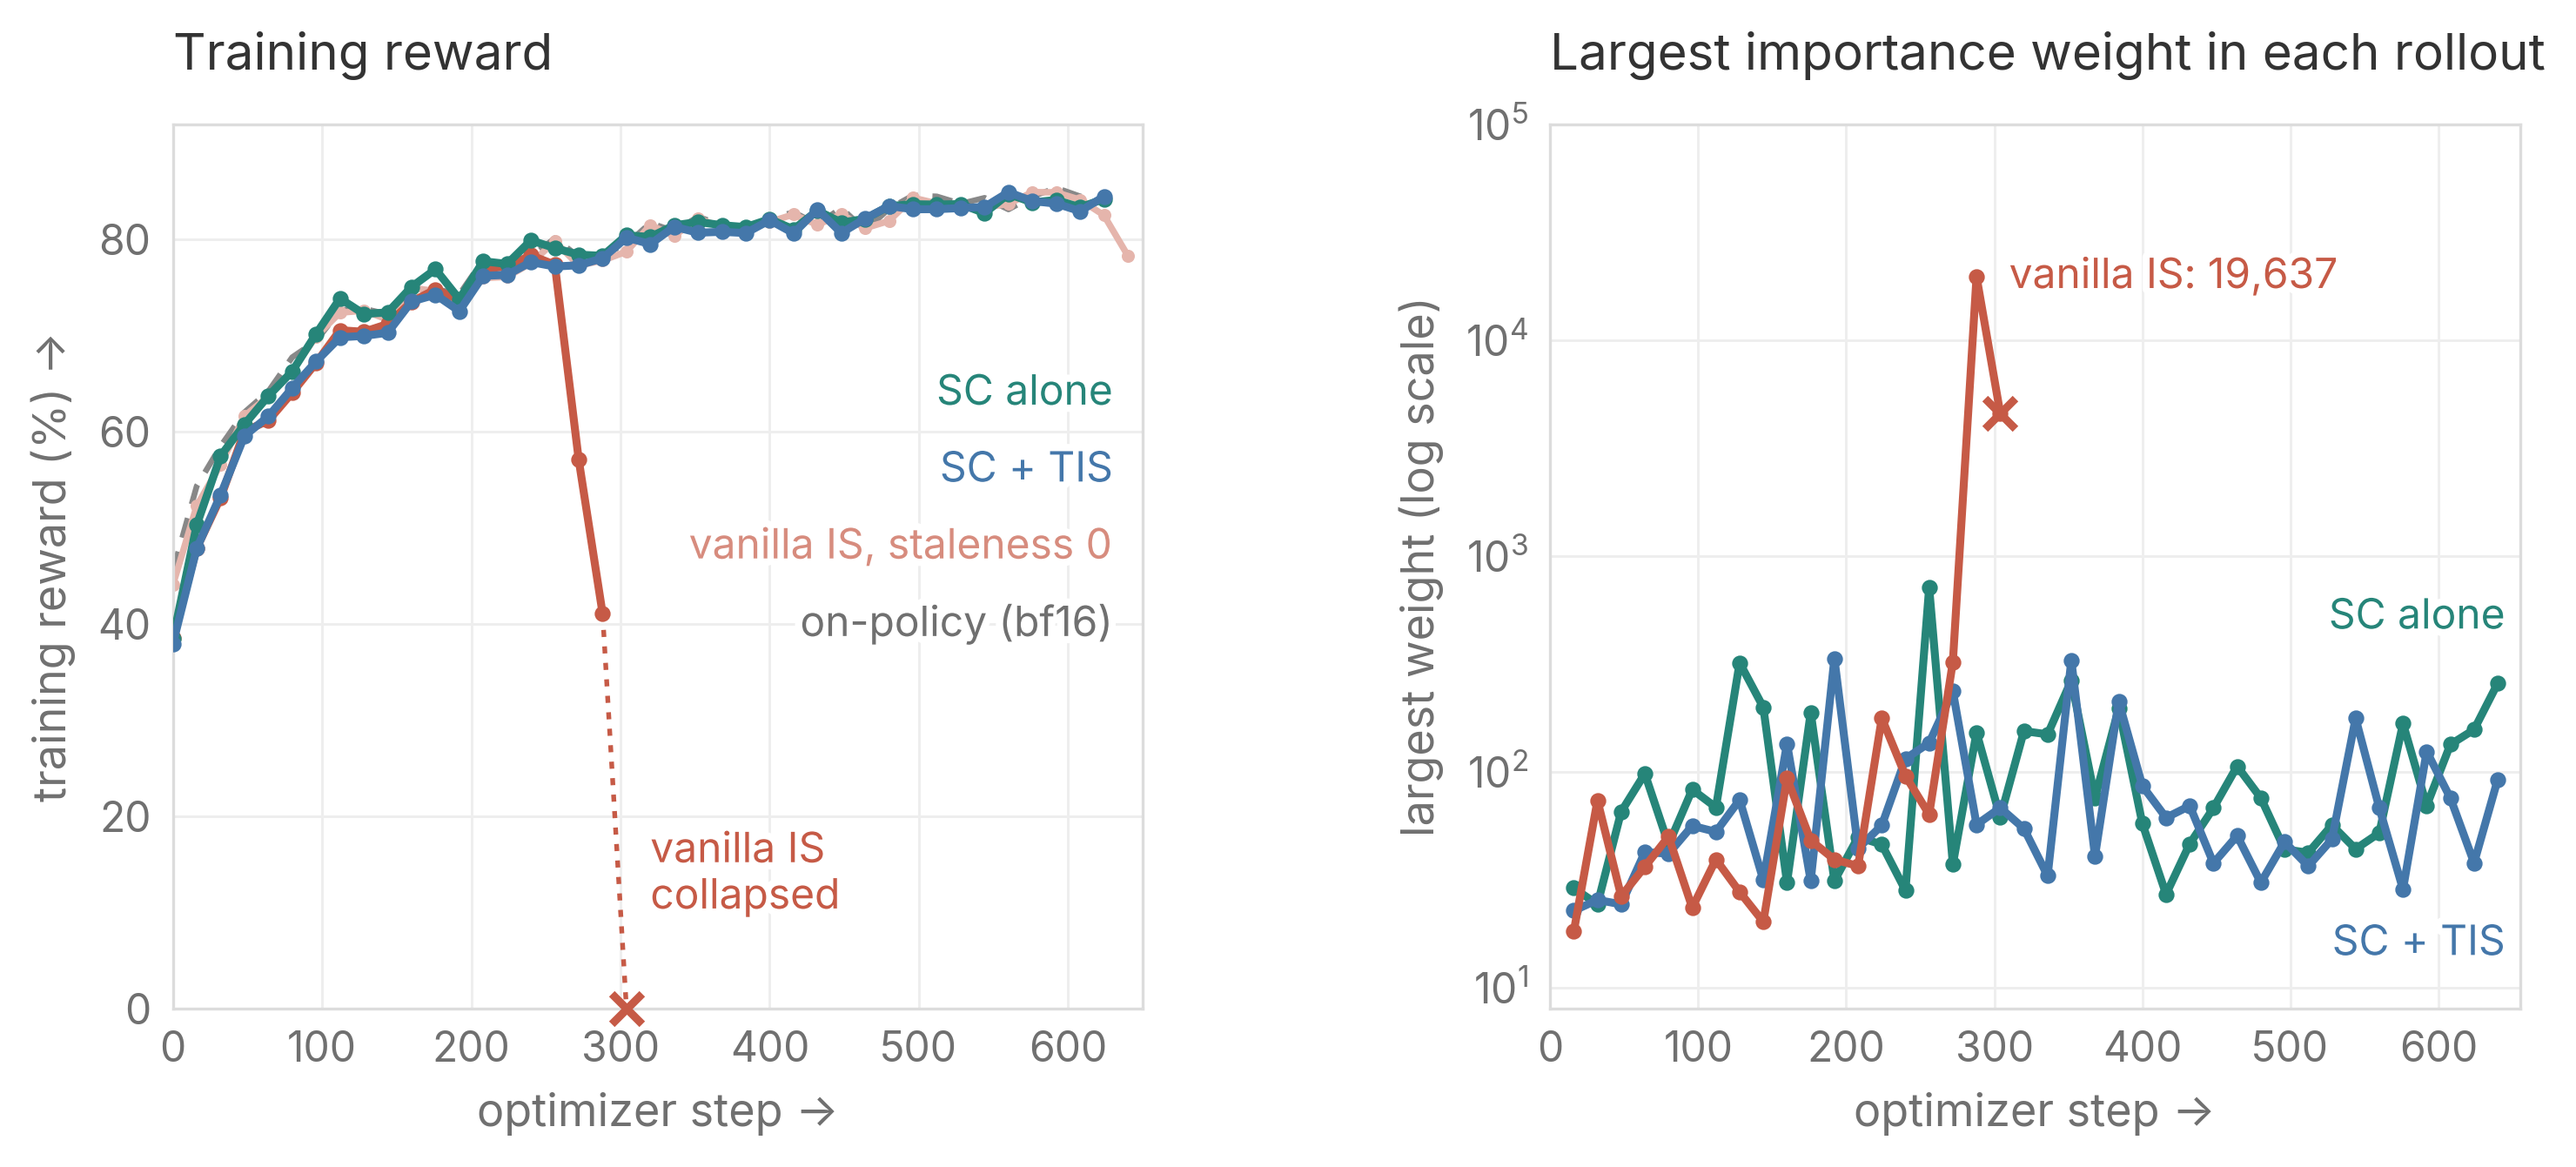
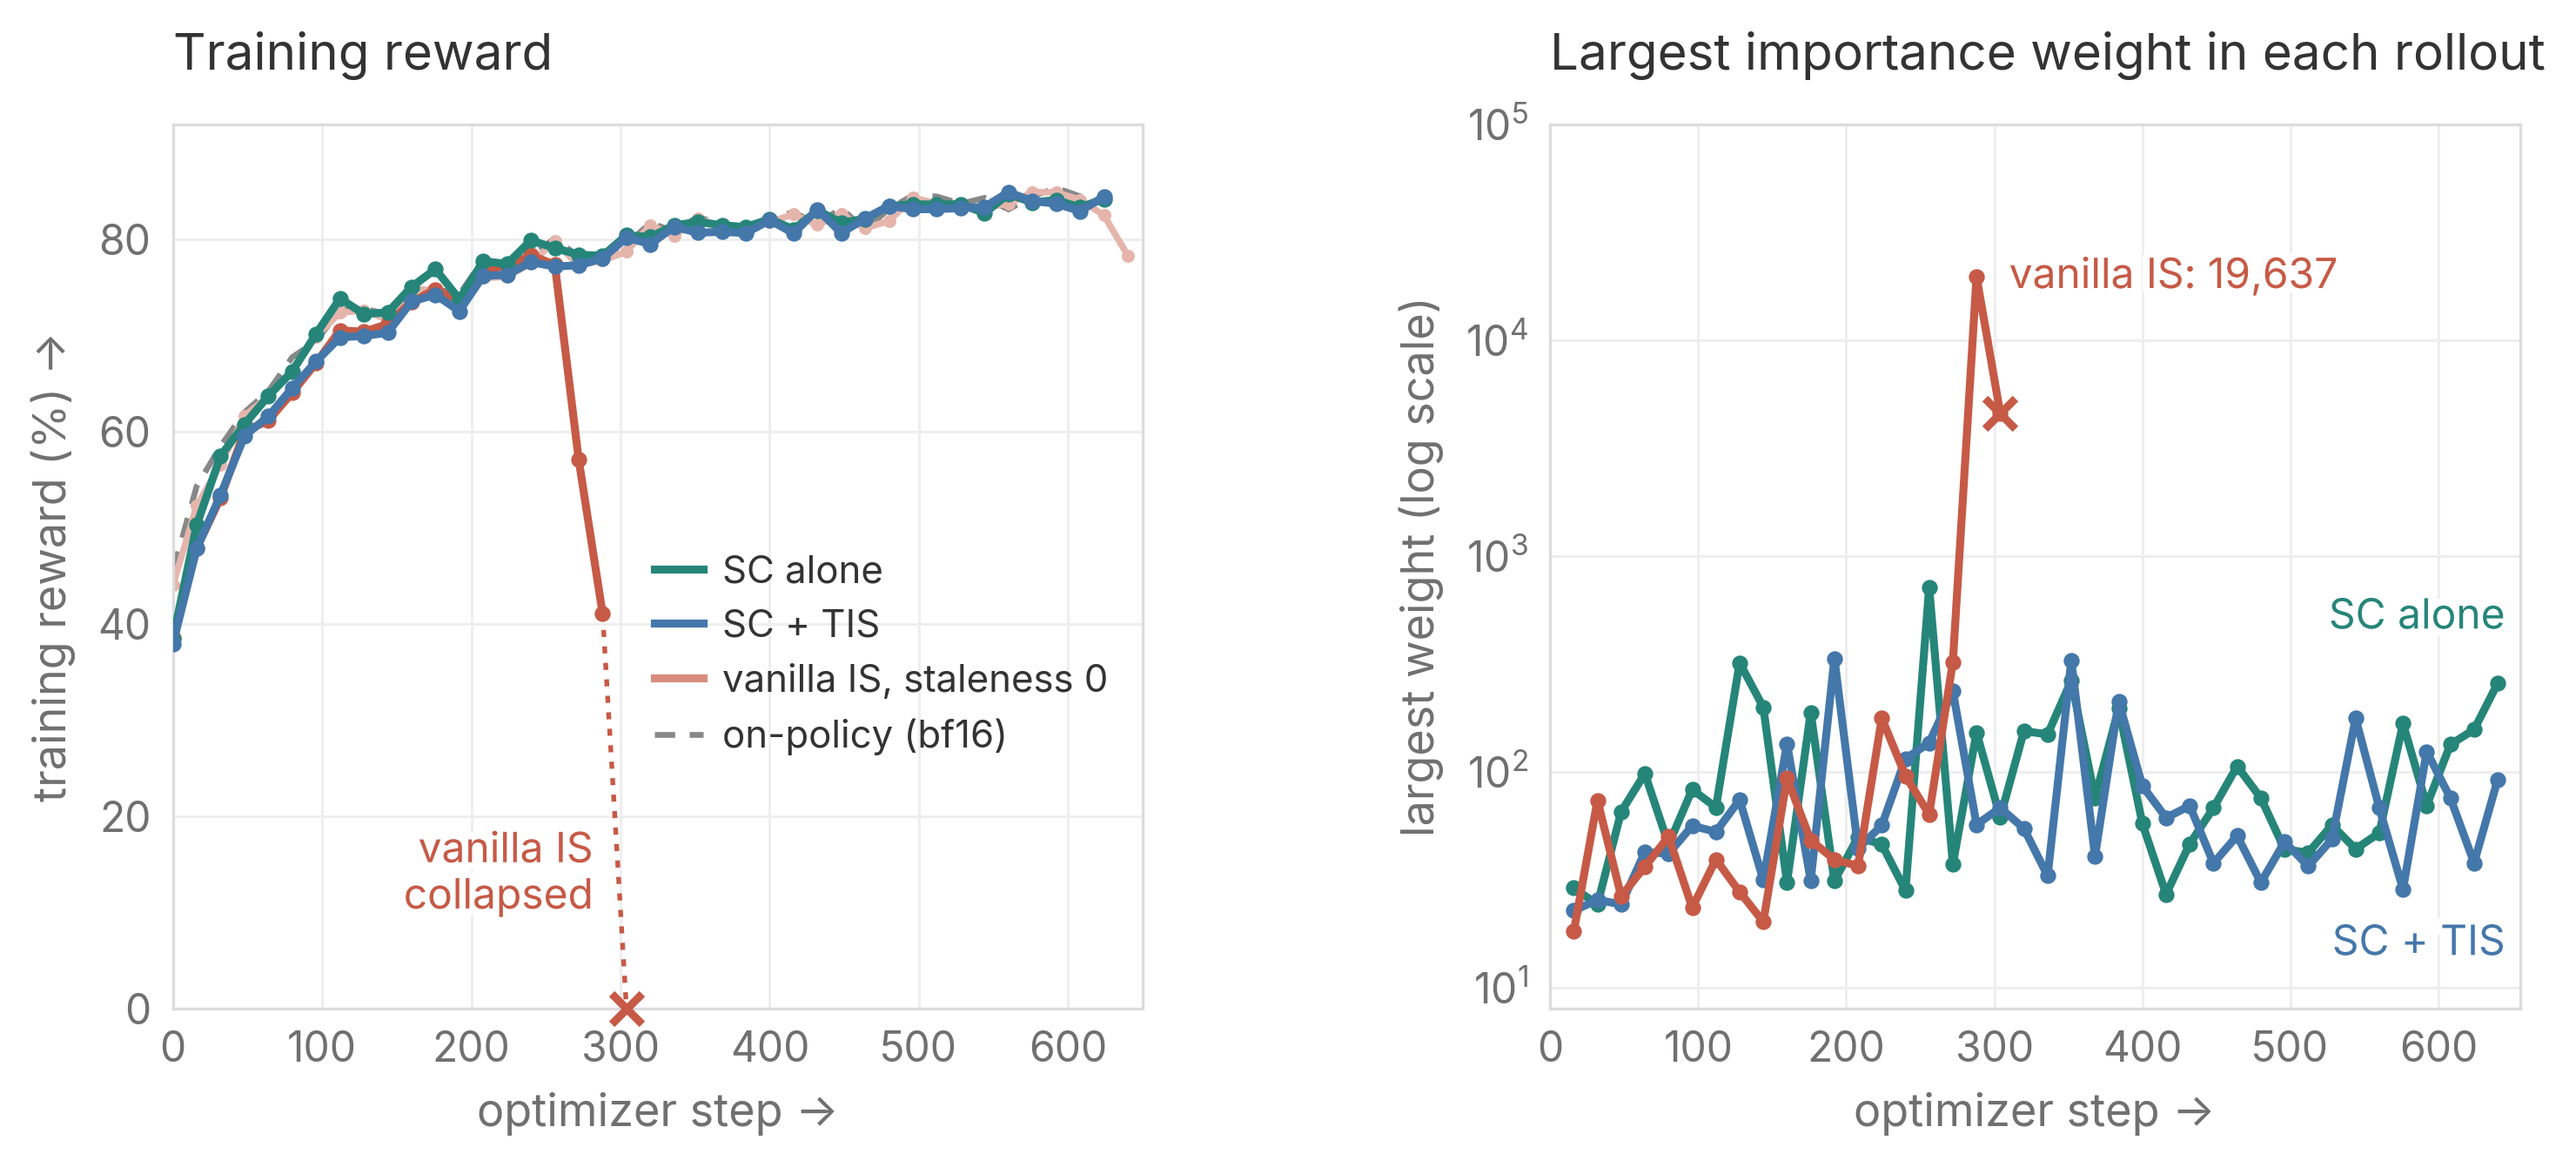
sc-drift-and-distance: Figure 8 panels on one step scale, Figure 11 label, Figure 12 legend

Changed region(s): [[0.2486, 0.4586, 0.4351, 0.6421], [0.1554, 0.7032, 0.3419, 0.7949], [0.373, 0.3057, 0.4351, 0.428]]

diff --git a/sc-drift-and-distance/index.html b/sc-drift-and-distance/index.html
@@ -191,7 +191,7 @@ html[data-theme=dark] .body figure img{filter:invert(.92) hue-rotate(180deg)}
 <p>Next we move to the opposite regime, with older data and smaller batches. Unlike vanilla IS, SC does not multiply the gradient by importance weights, so a single extreme weight cannot break it. It can still fail when the trainer moves far. We run SC alone at staleness 63 (64 mini-batches per rollout) with batches of 32, 64, and 512.</p>
 <figure id="fig-7"><img src="figs/fig07_sc_alone_staleness63_v4.png?v=36856d61ac" alt="Figure 7"><figcaption><b>Figure 7. SC alone at three batch sizes.</b> 0.8B on GSM8K, staleness 63, batch 32, 64, and 512. Left: training reward. Right: the largest KL in each rollout (log scale).</figcaption></figure>
 <p>The left panel of <a class="figref" href="#fig-7">Figure 7</a> shows that SC alone keeps up with on-policy at batch 512 but breaks at smaller batches. Batch 32 collapses at step 448. Batch 64 trains to the end but finishes 14 points below its best, and a second batch-64 seed, not shown, collapses in its first rollout. In the right panel, the smaller the batch, the higher the largest KL in each rollout. We repeat the test on 4B with DAPO-Math-17k at staleness 15 and also compare the three methods.</p>
-<figure id="fig-8"><img src="figs/fig13_qwen4b_dapo.png?v=9494c23661" alt="Figure 8"><figcaption><b>Figure 8. Vanilla IS, SC alone, and SC + TIS at batch 16 and batch 128.</b> 4B on DAPO-Math-17k, staleness 15, learning rate 0.033. Left: batch 16. Purple: SC + KL penalty with β = 0.01 (<a class="secref" href="#sec-4-3">Section 4.3</a>). Right: batch 128. On-policy runs 160 steps.</figcaption></figure>
+<figure id="fig-8"><img src="figs/fig13_qwen4b_dapo.png?v=2166ed9576" alt="Figure 8"><figcaption><b>Figure 8. Vanilla IS, SC alone, and SC + TIS at batch 16 and batch 128.</b> 4B on DAPO-Math-17k, staleness 15, learning rate 0.033. Left: batch 16. Purple: SC + KL penalty with β = 0.01 (<a class="secref" href="#sec-4-3">Section 4.3</a>). Right: batch 128. On-policy runs 160 steps.</figcaption></figure>
 <p>The 4B runs in <a class="figref" href="#fig-8">Figure 8</a> fail the same way at small batch. At batch 16, all three methods collapse, and each collapse starts with a sudden spike in the KL to the sampler. At batch 128, all three keep up with on-policy and roughly double the base model’s AIME scores. The differences among them are within sampling error (see the evaluation below). In both models, every failure comes with a large KL to the sampler, and a larger batch keeps that KL small. Why does the batch matter so much, and does it always help?</p>
 <details><summary>4B evaluation</summary>
 <figure id="fig-9"><img src="figs/fig08_4b_eval.png?v=ce86ea0fb5" alt="Figure 9"><figcaption><b>Figure 9. Evaluation scores at the final checkpoint.</b> 4B on DAPO-Math-17k, staleness 15, batch 128 unless noted. SC + KL penalty: batch 16, β = 0.01. Each AIME score averages 16 samples per problem, with a sampling error of about 1.3 points. On-policy runs 160 steps and the others 320. The batch-16 runs without a KL penalty collapsed and are not evaluated.</figcaption></figure>
@@ -218,7 +218,7 @@ html[data-theme=dark] .body figure img{filter:invert(.92) hue-rotate(180deg)}
 <p>SC alone breaks once the trainer moves far from the sampler, that is, once the largest KL in a rollout grows large. We compare three ways to rescue it: changing the settings that set this distance, adding importance weights, and adding a KL penalty that pulls the trainer back.</p>
 <h3 id="sec-4-1">4.1 Training settings: control the distance at the source</h3>
 <p>The most direct fix is to change the settings that set the distance. We start from batch 32 at staleness 63, where SC collapses, and change one setting at a time (<a class="figref" href="#fig-11">Figure 11</a>). For staleness we start from batch 64, the smallest batch we ran at both staleness 63 and 15.</p>
-<figure id="fig-11"><img src="figs/fig14_sc_rescue.png?v=2f85e34a2f" alt="Figure 11"><figcaption><b>Figure 11. SC alone, rescued by changing one setting.</b> 0.8B on GSM8K, training reward. Left: staleness 63, learning rate 0.03. Middle: staleness 63, batch 32. Right: batch 64, learning rate 0.03.</figcaption></figure>
+<figure id="fig-11"><img src="figs/fig14_sc_rescue.png?v=c9ae7ce1cc" alt="Figure 11"><figcaption><b>Figure 11. SC alone, rescued by changing one setting.</b> 0.8B on GSM8K, training reward. Left: staleness 63, learning rate 0.03. Middle: staleness 63, batch 32. Right: batch 64, learning rate 0.03.</figcaption></figure>
 <p>A larger batch, a lower learning rate, and less staleness each rescue SC, by different amounts:</p>
 <ul><li><b>Larger batch.</b> Going from batch 32 to 512 only halves the first-rollout KL, because about half of it is signal. In later rollouts, when the KL is mostly noise, it helps much more.</li><li><b>Lower learning rate.</b> Cutting it to a third lowers the KL by more than an order of magnitude, whatever the KL is made of.</li><li><b>Less staleness.</b> It is the main fix for very old data. Going from 63 to 15 at batch 64 cuts the KL by more than the ratio squared (about 18×), and SC trains to the end (<a class="figref" href="#fig-11">Figure 11</a>, right).</li></ul>
 <p>The two-term formula predicts these reductions well while the trainer stays close to the sampler. Late in a rollout at learning rate 0.03, the KL grows faster than the formula allows, so a lower learning rate or less staleness helps even more than predicted.</p>
@@ -227,7 +227,7 @@ html[data-theme=dark] .body figure img{filter:invert(.92) hue-rotate(180deg)}
 <p>Another option is importance weights, which correct the reweighting error that SC leaves. Vanilla IS removes drift in expectation even without SC (the starred run in <a class="figref" href="#fig-4">Figure 4</a>). Truncating the weights brings drift back, unless SC centers with the same truncated weights, as ours does. Yet neither rescues SC where it fails, and large and small weights show why.</p>
 <p><b>Large weights.</b> A token gets a large weight when the trainer gives it much more probability than the sampler did. Such tokens appear less often in the sampler's data than the trainer needs, and their large weights restore the balance but make the gradient noisy. Their variance grows with \(\mathbb{E}_q[w^2]\) and falls as \(1/B\), which is one reason vanilla IS survives at batch 512 but not at batch 64.</p>
 <p>A small KL does not keep these weights safe. In <a class="figref" href="#fig-12">Figure 12</a>, an fp8 sampler with a bf16 trainer adds a small rounding difference to every probability, and the KL stays small. Without staleness, vanilla IS still tracks on-policy, but at staleness 15 a single weight jumps to nearly 20,000 (right) and the run collapses, while SC alone and SC + TIS train to the end (left).</p>
-<figure id="fig-12"><img src="figs/fig08_fp8_sampler.png?v=1c1456c44c" alt="Figure 12"><figcaption><b>Figure 12. Vanilla IS, SC alone, and SC + TIS with an fp8 sampler.</b> 0.8B on GSM8K, staleness 15 unless noted, batch 512. Left: training reward. Right: the largest importance weight in each rollout, which SC alone only logs. The sampler runs weights and activations in fp8 and keeps the KV cache in bf16. Storing the KV cache in fp8 as well changes little, because only 6 of the model’s 24 layers use attention.</figcaption></figure>
+<figure id="fig-12"><img src="figs/fig08_fp8_sampler.png?v=79820b4e99" alt="Figure 12"><figcaption><b>Figure 12. Vanilla IS, SC alone, and SC + TIS with an fp8 sampler.</b> 0.8B on GSM8K, staleness 15 unless noted, batch 512. Left: training reward. Right: the largest importance weight in each rollout, which SC alone only logs. The sampler runs weights and activations in fp8 and keeps the KV cache in bf16. Storing the KV cache in fp8 as well changes little, because only 6 of the model’s 24 layers use attention.</figcaption></figure>
 <p><a class="figref" href="#fig-13">Figure 13</a> shows the same at staleness 63 and batch 512. SC alone moves about 10× further from the sampler than vanilla IS in the first rollout (left), yet SC trains to the end and vanilla IS collapses in both seeds (right).</p>
 <figure id="fig-13"><img src="figs/fig09_staleness63_vanilla_is.png?v=25e39c4422" alt="Figure 13"><figcaption><b>Figure 13. SC alone against vanilla IS.</b> 0.8B on GSM8K, staleness 63, batch 512, two seeds each. Left: KL to the sampler in the first rollout. Right: training reward.</figcaption></figure>
 <p><b>Small weights.</b> Tokens the trainer already gives less probability than the sampler have \(w &lt; 1\). When IS pushes such a token down, its weight shrinks and the push weakens, while SC keeps pushing at full strength. <a class="figref" href="#fig-14">Figure 14</a> shows the result in the first rollout at staleness 63. SC alone ends with several times more tokens below \(w = 0.5\) than vanilla IS (right). Adding just this weakening to SC, by multiplying the terms with negative advantage by \(\min(1, w)\), cuts the KL more than tenfold (left).</p>
